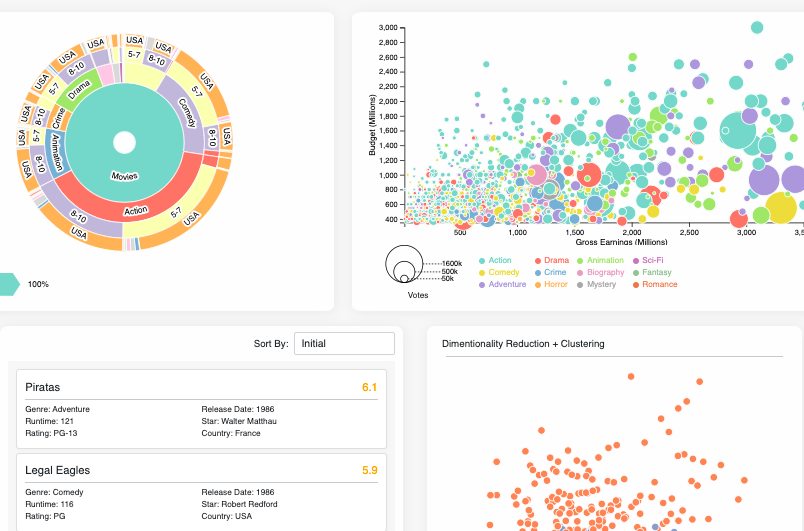
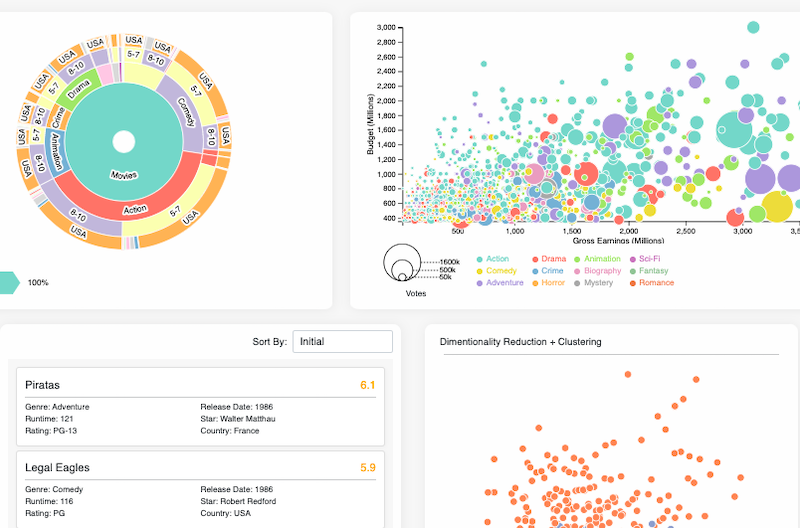
Resize and reformat images for better compression

diff --git a/src/components/aboutme/photoblobs.js b/src/components/aboutme/photoblobs.js
@@ -41,7 +41,7 @@ export const PhotoBlobs = () => {
                 <img src={greyPhotoBlob} loading="lazy"alt="Just a blob shape."/>
             </div>
             <StaticImage
-                src="../../images/singing.jpg"
+                src="../../images/singing.webp"
                 alt="A picture of me singing!"
                 loading="lazy"
                 style={{
@@ -54,7 +54,7 @@ export const PhotoBlobs = () => {
                 placeholder="blurred"
             />
             <StaticImage
-                src="../../images/travel.jpg"
+                src="../../images/travel.webp"
                 alt="A picture I took of Venice!"
                 loading="lazy"
                 style={{
@@ -67,7 +67,7 @@ export const PhotoBlobs = () => {
                 placeholder="blurred"
             />
             <StaticImage
-                src="../../images/makeup.JPG"
+                src="../../images/makeup.webp"
                 alt="A picture of me doing makeup!"
                 loading="lazy"
                 style={{

diff --git a/src/components/landing/mobile-layout.js b/src/components/landing/mobile-layout.js
@@ -62,7 +62,7 @@ export const MobileLayout = () => {
                 <FindMe absolute={true}/>
                 : null}
             <div className={classes.blobContent}>
-                <img src={mainPhoto} className={classes.mainPhoto} />
+                <img src={mainPhoto} className={classes.mainPhoto} alt="A picture of me"/>
                 <div className={classes.blobText}>
                     <div className={`${classes.blobTitle} heading`}>
                         <span>Hello

diff --git a/src/components/card.js b/src/components/card.js
@@ -91,7 +91,7 @@ export const Card = (props) => {
 
     return (
         <div className={`${styles.card} ${image ? "tall" : null}`}>
-            <img src={yellowBlob} className={styles.bulletBlob} width="30px"/>
+            <img src={yellowBlob} className={styles.bulletBlob} width="30px" alt="Blob shape"/>
             {image
                 ? <img src={image} className={styles.headerImage} height="180px" loading="lazy" alt="Image of a project" />
                 : null

diff --git a/src/components/nav/nav-item.js b/src/components/nav/nav-item.js
@@ -43,7 +43,7 @@ export const NavItem = ({ text, href, showMenu }) => {
 
     return (
         <div className={mobile ? `${styles.navItem} mobile` : styles.navItem}>
-            <img className={styles.hoverBlob} src={yellowBlob} height="20px"/>
+            <img className={styles.hoverBlob} src={yellowBlob} height="20px" alt="Blob shape"/>
             <a onClick={scrollToElement}>{text}</a>
         </div>
 

diff --git a/src/components/landing/landing.js b/src/components/landing/landing.js
@@ -67,7 +67,7 @@ export const Landing = () => {
                 : null}
             <div className={classes.blobContent}>
                 <StaticImage
-                    src="../../images/mainphoto.jpg"
+                    src="../../images/mainphoto.webp"
                     alt="A picture of me!"
                     loading="eager"
                     style={{
